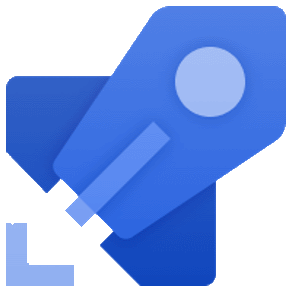
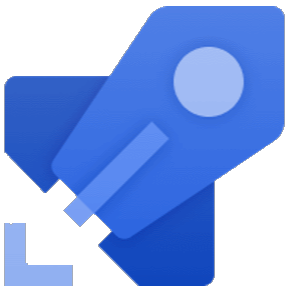
fix: extensions publishing (#8)
* fix: use square icon for toolbox extension
* fix: use uuid as extension id
* chore: wait for validation in workflow

diff --git a/extensions/toolbox/vss-extension.js b/extensions/toolbox/vss-extension.js
@@ -6,7 +6,7 @@ const base = buildManifest()
 function manifest() {
   return {
     ...base,
-    id: 'toolbox',
+    id: '853934ee-2696-11f1-b8e6-00155d89217a',
     public: true,
     name: 'Toolbox',
     description: 'Azure Pipelines Toolbox',

diff --git a/.changeset/deep-loops-build.md b/.changeset/deep-loops-build.md
@@ -1,0 +1,2 @@
+---
+---
